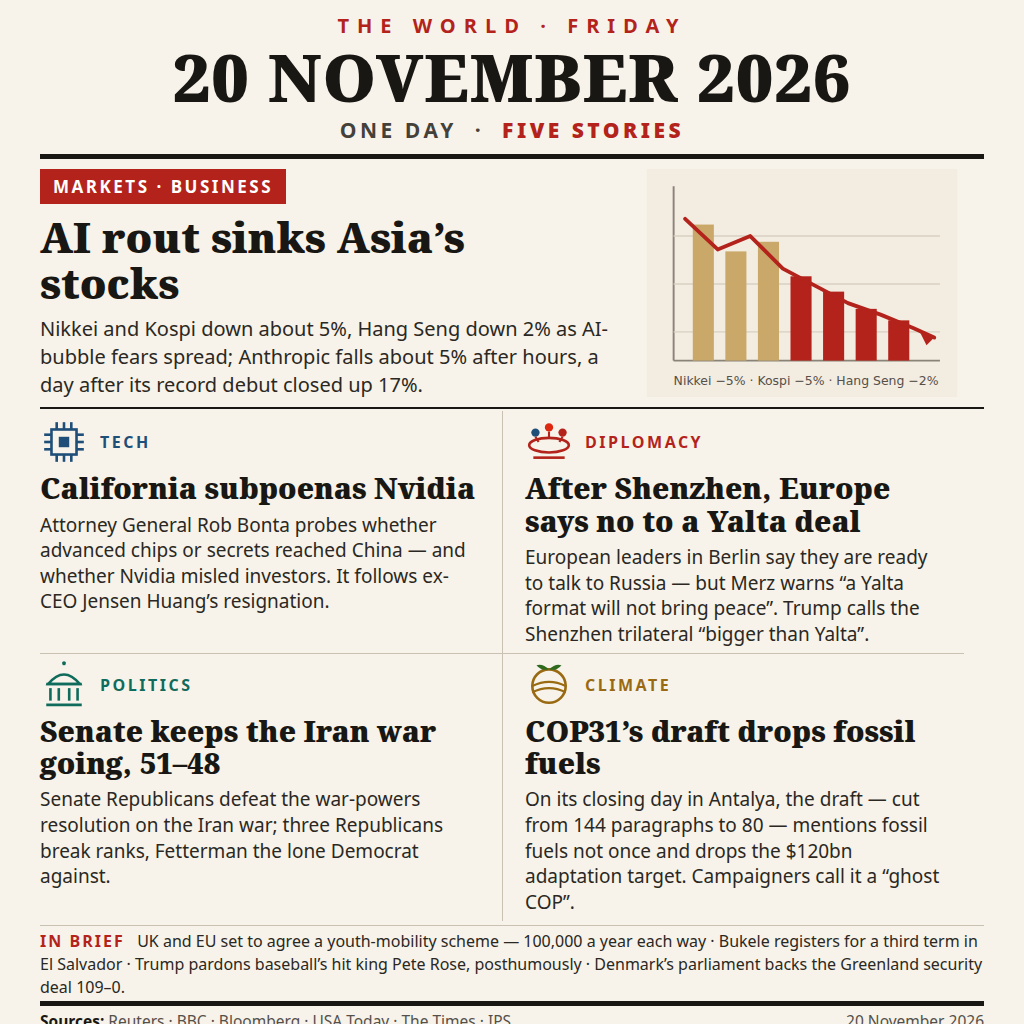
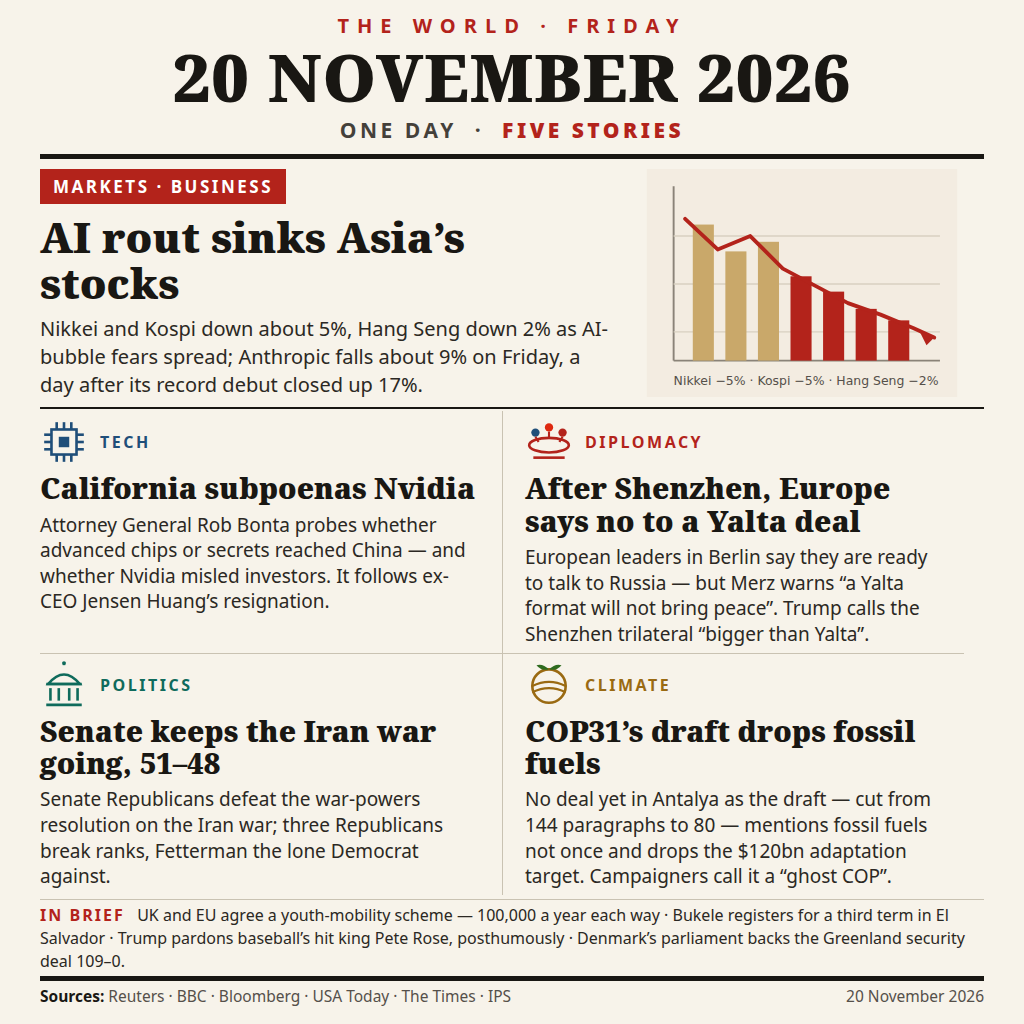
Refresh: ANT Friday close -9%, COP31 no deal yet, UK-EU youth scheme agreed
- Lead: Anthropic about 9% down on Friday (was about 5% after hours
  on Thursday); debut still closed up 17%
- COP31: talks ran past the Friday deadline with no deal; third
  draft due Saturday (was 'on its closing day')
- IN BRIEF: UK and EU agreed the youth-mobility scheme at the
  Friday summit (was 'set to agree')
Verified against Reuters, Al Jazeera, The Hindu, Finnhub; image
re-rendered 1024x1024, byte-identical across two runs.

Changed region(s): [[0.0312, 0.75, 0.9688, 1.0], [0.4688, 0.3438, 0.5938, 0.375]]

diff --git a/build/news.html b/build/news.html
@@ -99,7 +99,7 @@
     <div class="text">
       <span class="tag">Markets &middot; Business</span>
       <h2>AI rout sinks Asia&rsquo;s stocks</h2>
-      <p>Nikkei and Kospi down about 5%, Hang Seng down 2% as AI-bubble fears spread; Anthropic falls about 5% after hours, a day after its record debut closed up 17%.</p>
+      <p>Nikkei and Kospi down about 5%, Hang Seng down 2% as AI-bubble fears spread; Anthropic falls about 9% on Friday, a day after its record debut closed up 17%.</p>
     </div>
     <div class="art">
       <svg viewBox="0 0 324 238" xmlns="http://www.w3.org/2000/svg">
@@ -203,11 +203,11 @@
         <span class="tag">Climate</span>
       </div>
       <h3>COP31&rsquo;s draft drops fossil fuels</h3>
-      <p>On its closing day in Antalya, the draft &mdash; cut from 144 paragraphs to 80 &mdash; mentions fossil fuels not once and drops the $120bn adaptation target. Campaigners call it a &ldquo;ghost COP&rdquo;.</p>
+      <p>No deal yet in Antalya as the draft &mdash; cut from 144 paragraphs to 80 &mdash; mentions fossil fuels not once and drops the $120bn adaptation target. Campaigners call it a &ldquo;ghost COP&rdquo;.</p>
     </div>
   </div>
 
-  <div class="brief"><b>IN BRIEF</b> &nbsp; UK and EU set to agree a youth-mobility scheme &mdash; 100,000 a year each way &middot; Bukele registers for a third term in El Salvador &middot; Trump pardons baseball&rsquo;s hit king Pete Rose, posthumously &middot; Denmark&rsquo;s parliament backs the Greenland security deal 109&ndash;0.</div>
+  <div class="brief"><b>IN BRIEF</b> &nbsp; UK and EU agree a youth-mobility scheme &mdash; 100,000 a year each way &middot; Bukele registers for a third term in El Salvador &middot; Trump pardons baseball&rsquo;s hit king Pete Rose, posthumously &middot; Denmark&rsquo;s parliament backs the Greenland security deal 109&ndash;0.</div>
 
   <div class="footer">
     <span><b>Sources:</b> Reuters &middot; BBC &middot; Bloomberg &middot; USA Today &middot; The Times &middot; IPS</span>
